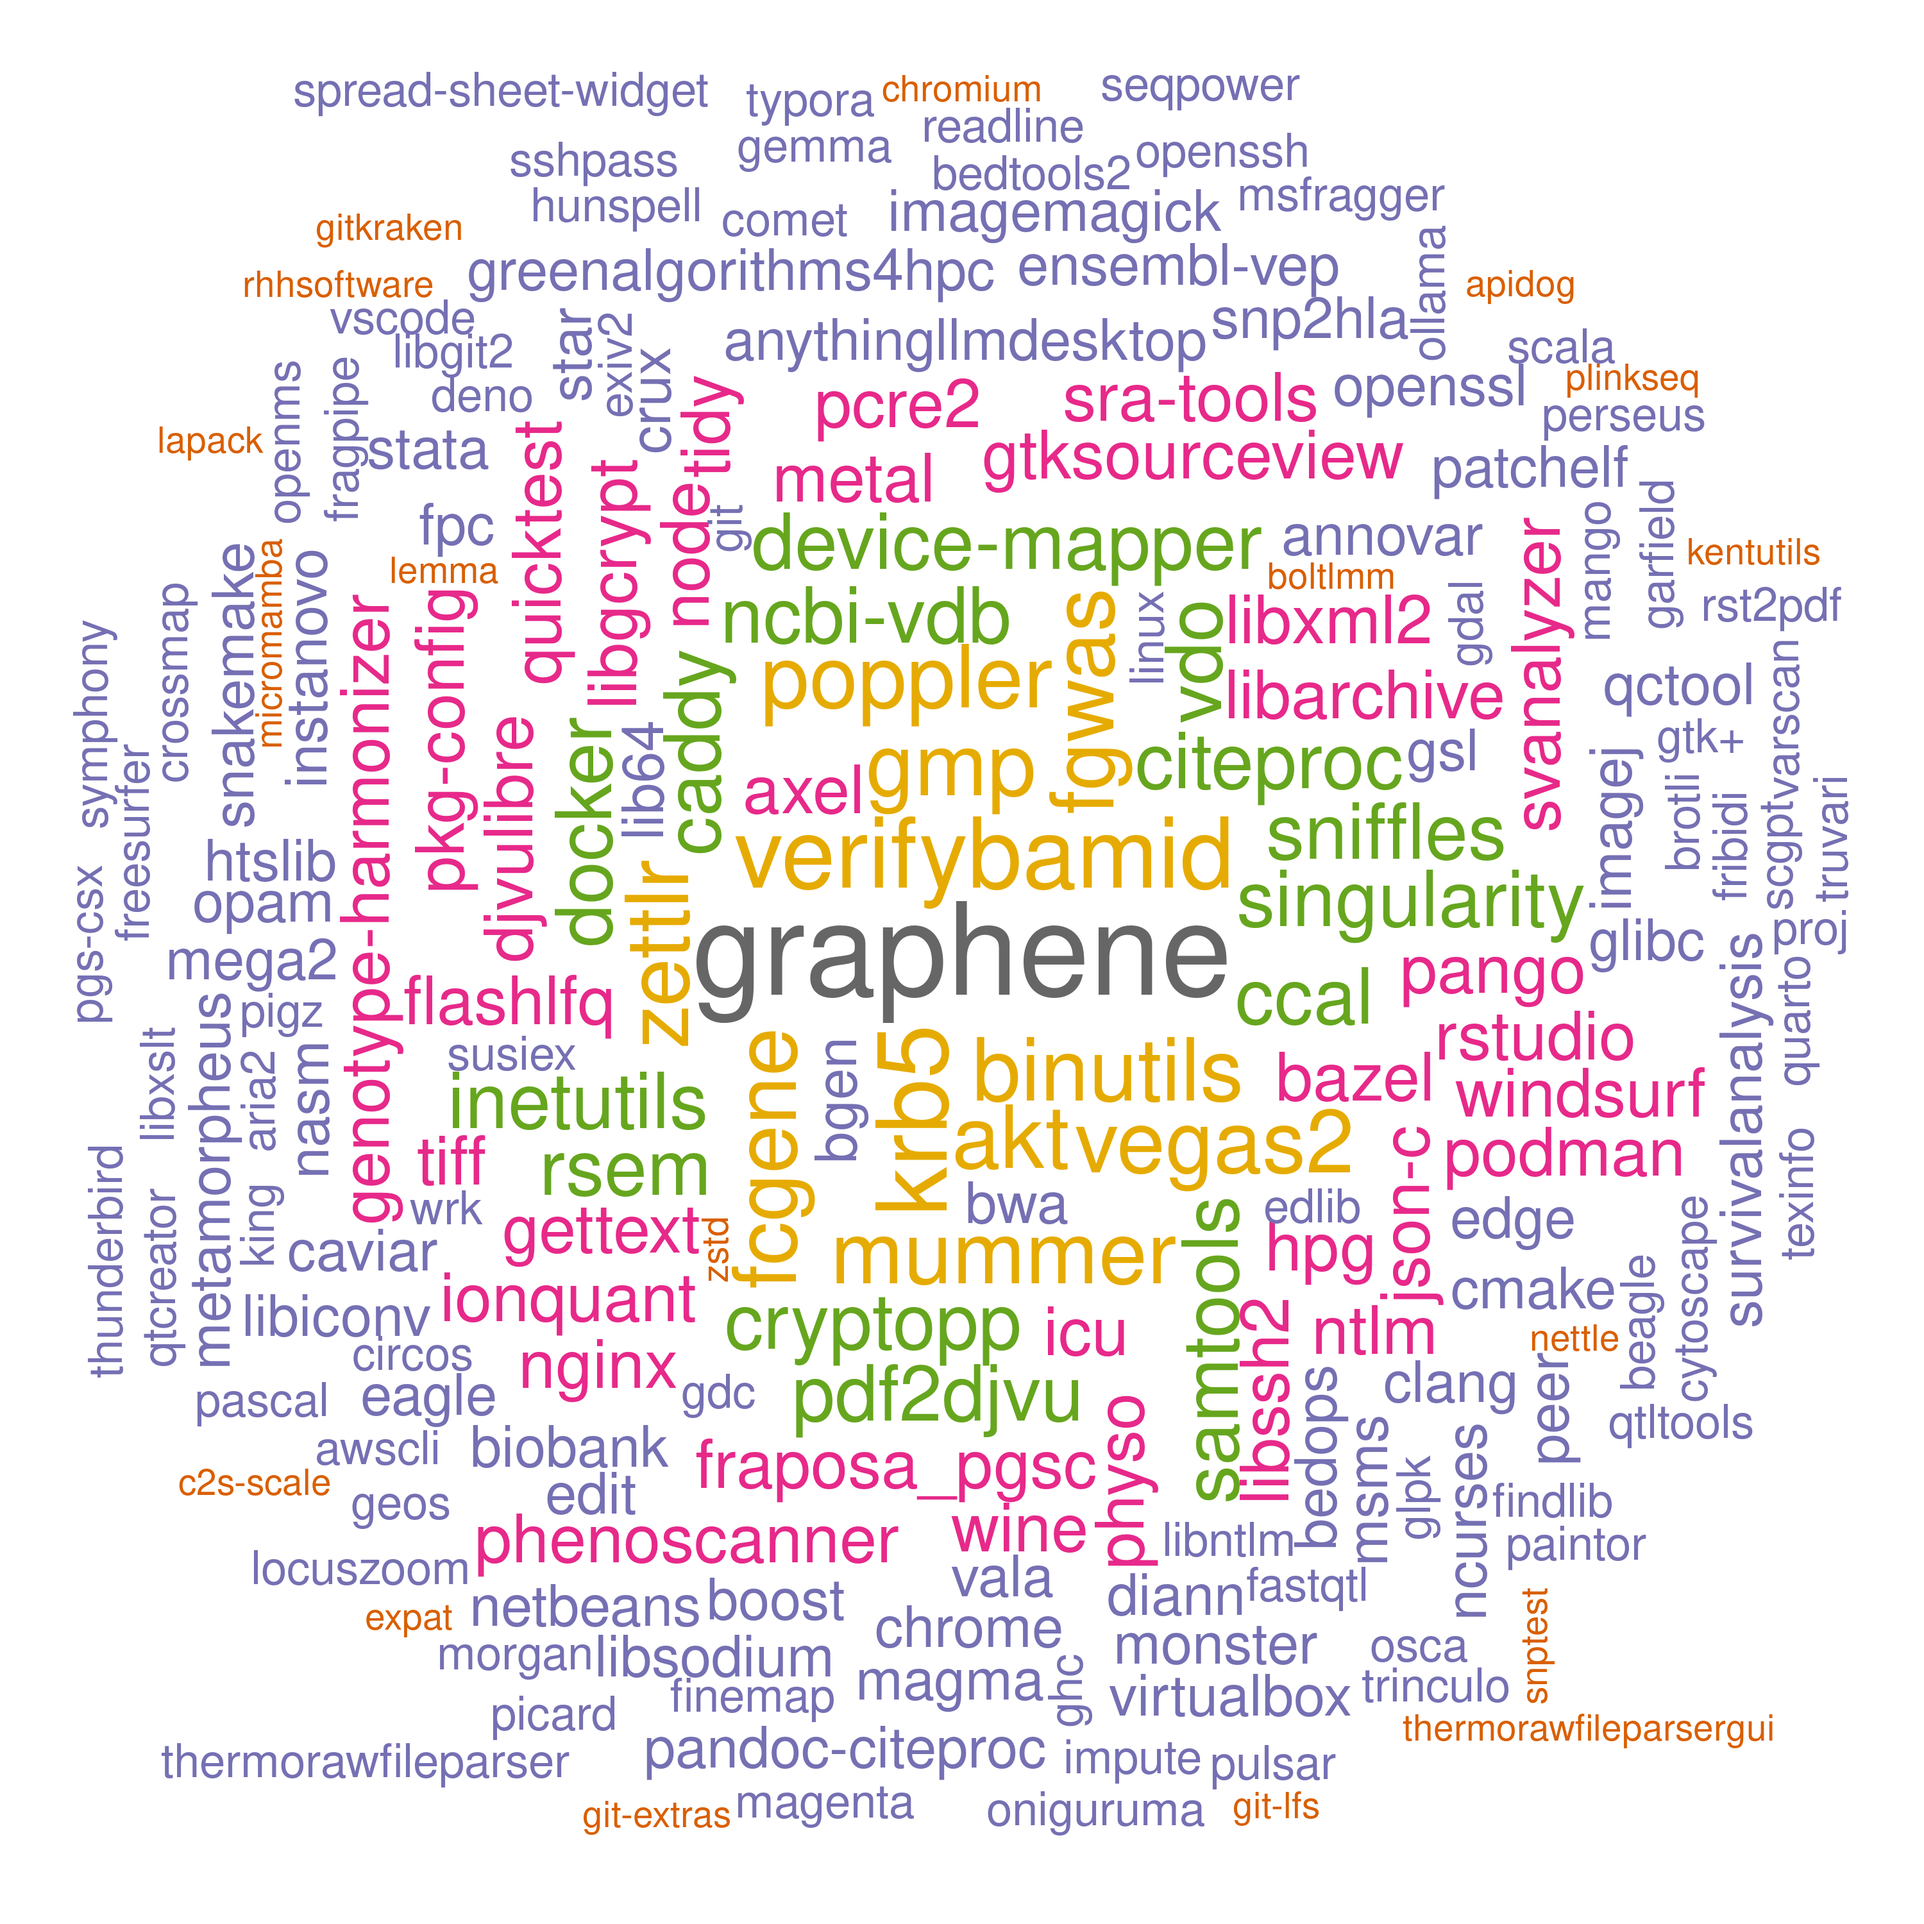
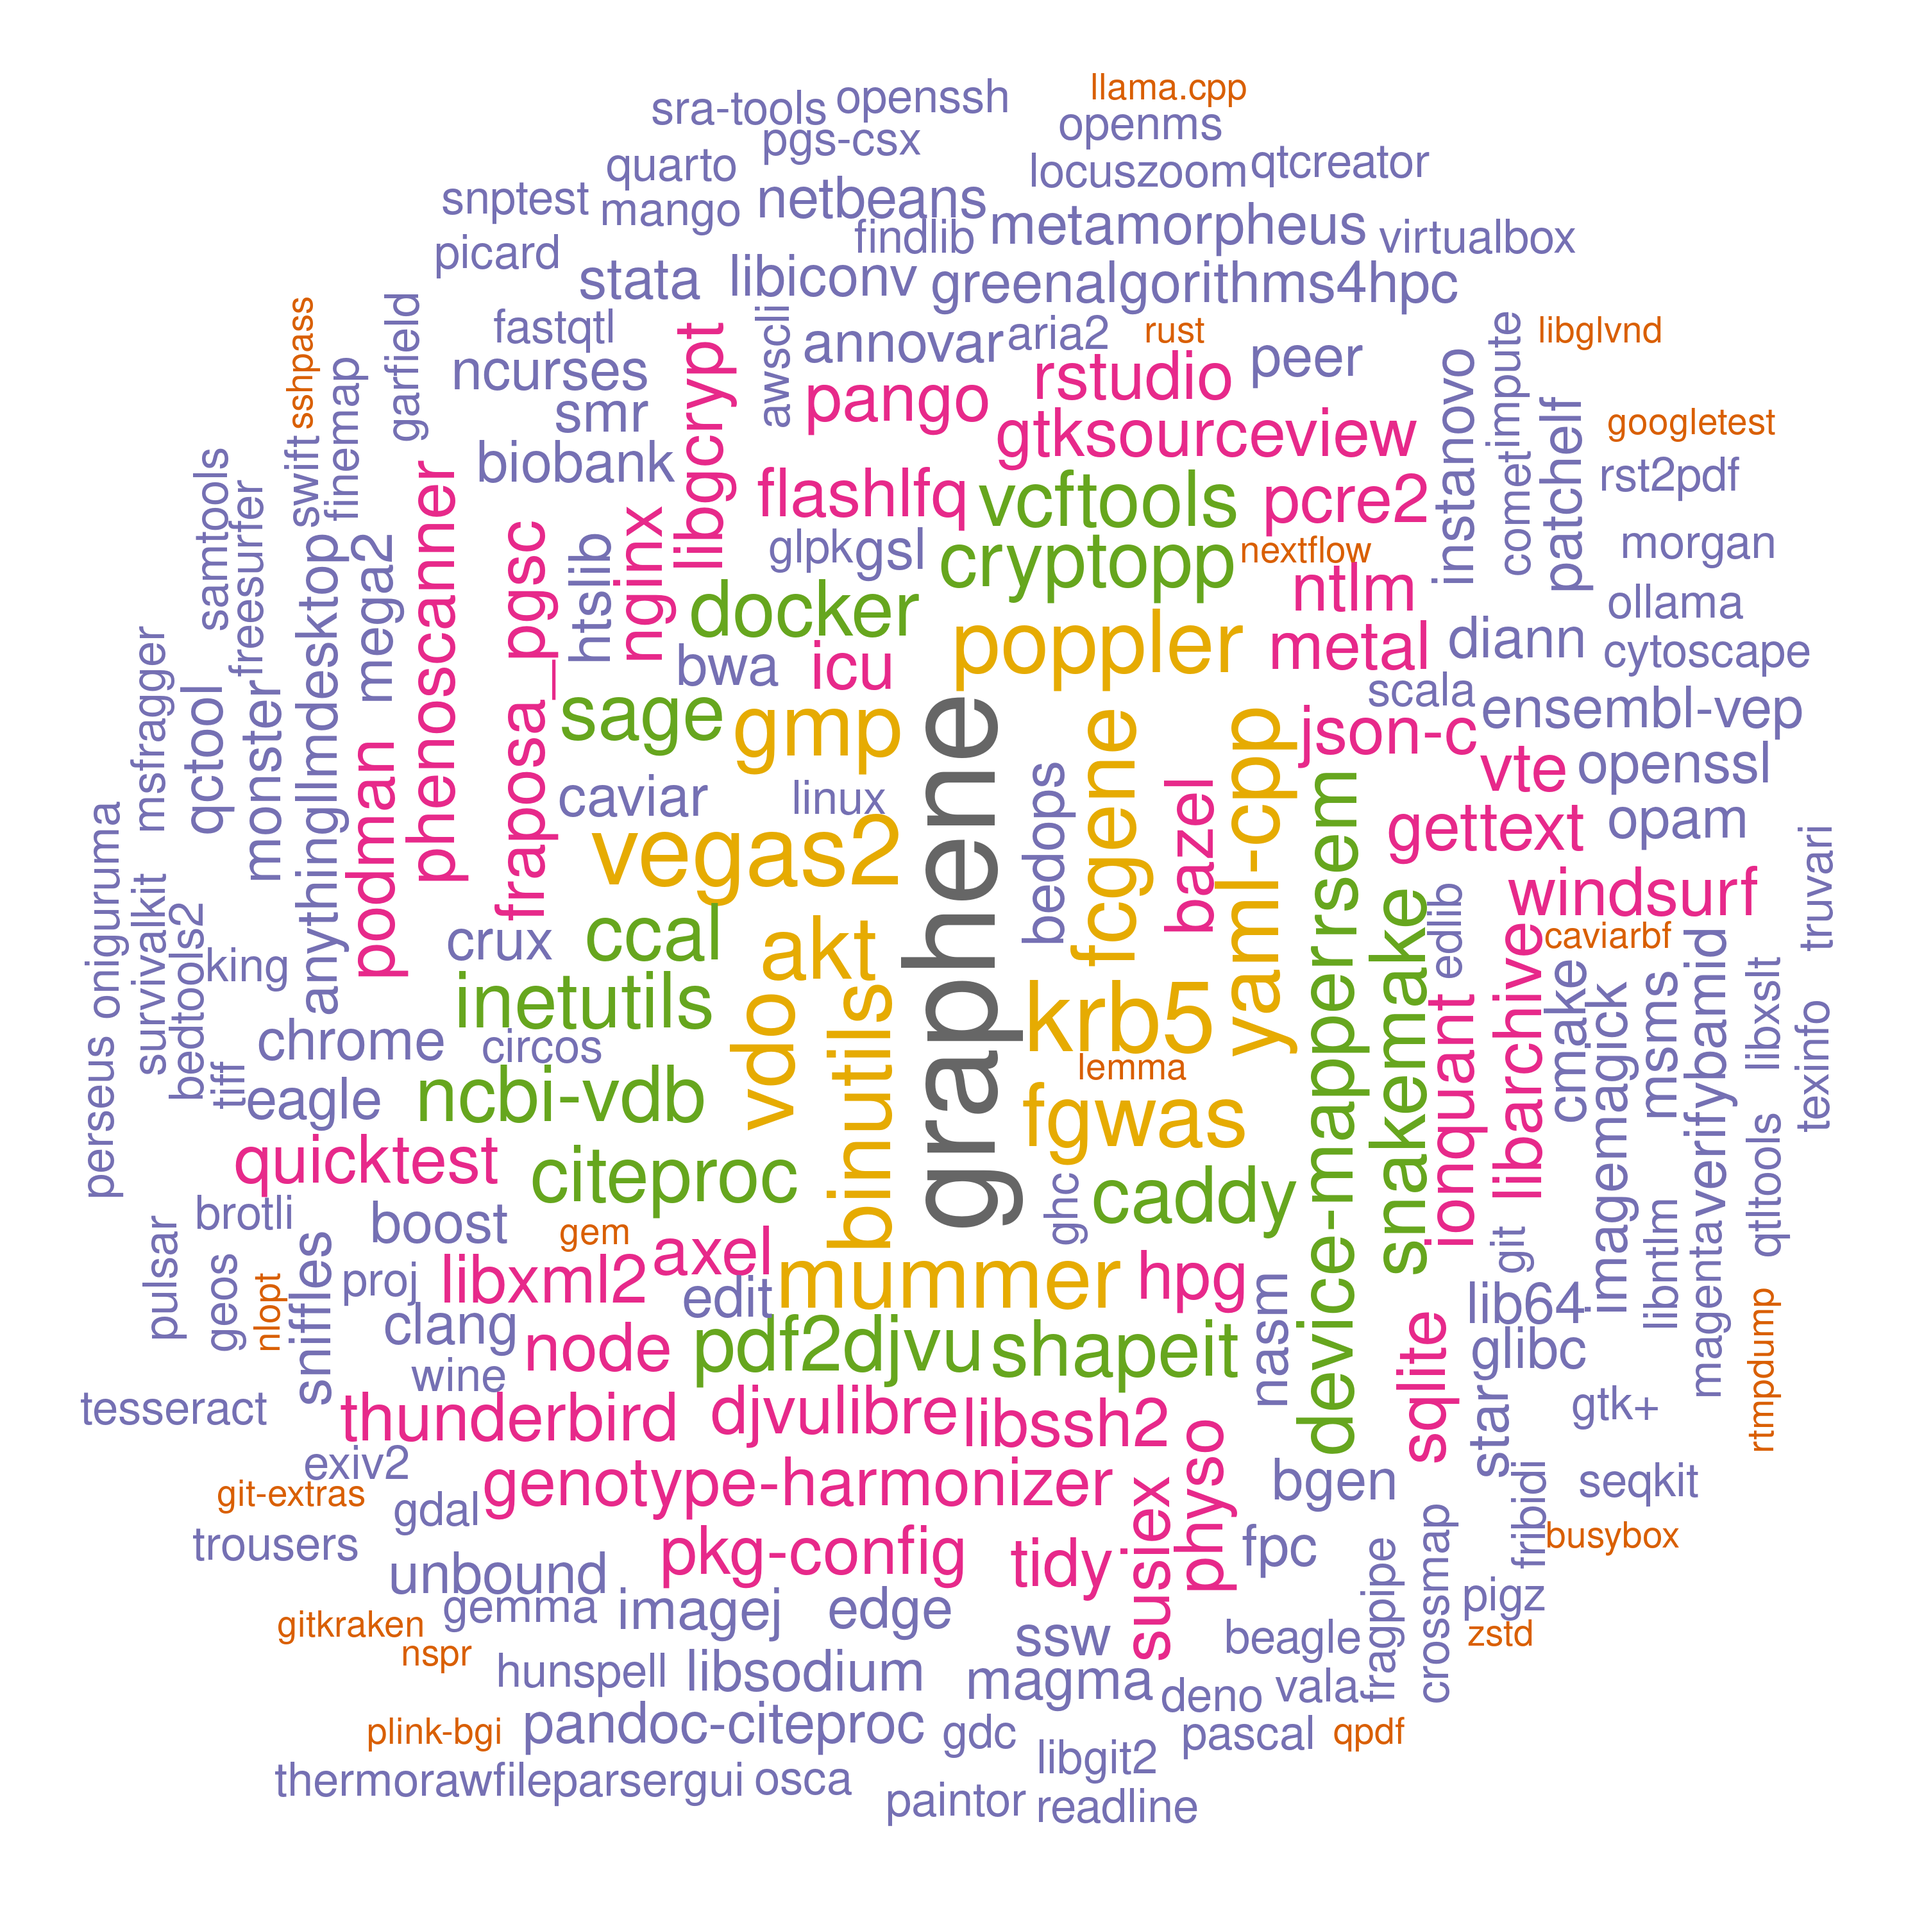
./

Changed region(s): [[0.031, 0.031, 0.961, 0.961]]

diff --git a/systems/ceuadmin.md b/systems/ceuadmin.md
@@ -79,23 +79,24 @@ The current list is as follows,
 [245] "qt"                     "qtcreator"              "QTLtools"               "quarto"
 [249] "quicktest"              "R"                      "raremetal"              "rclone"
 [253] "readline"               "regenie"                "regtools"               "RHHsoftware"
-[257] "RSEM"                   "rst2pdf"                "rstudio"                "rtmpdump"
-[261] "ruby"                   "rust"                   "sage"                   "samtools"
-[265] "Scala"                  "scGPT"                  "seqkit"                 "SEQPower"
-[269] "shapeit"                "singularity"            "SMR"                    "snakemake"
-[273] "sniffles"               "SNP2HLA"                "snptest"                "spread-sheet-widget"
-[277] "spyder"                 "sqlite"                 "sra-tools"              "sshpass"
-[281] "ssw"                    "STAR"                   "stata"                  "SurvivalAnalysis"
-[285] "SurvivalKit"            "SuSiEx"                 "SVanalyzer"             "Swift"
-[289] "SYMPHONY"               "Synapse"                "tabix"                  "tandem"
-[293] "tatami"                 "tesseract"              "texinfo"                "ThermoRawFileParser"
-[297] "ThermoRawFileParserGUI" "thunderbird"            "tidy"                   "tiff"
-[301] "trinculo"               "trousers"               "truvari"                "Typora"
-[305] "unbound"                "uv"                     "vala"                   "VarScan"
-[309] "vcftools"               "vdo"                    "VEGAS2"                 "verifyBamID"
-[313] "VirtualBox"             "VSCode"                 "VSCodium"               "vte"
-[317] "Windsurf"               "wine"                   "wrk"                    "xpdf"
-[321] "yaml-cpp"               "Zettlr"                 "Zotero"                 "zstd"
+[257] "RSEM"                   "rst2pdf"                "rstudio"                "rtg-tools"
+[261] "rtmpdump"               "ruby"                   "rust"                   "sage"
+[265] "samtools"               "Scala"                  "scGPT"                  "seqkit"
+[269] "SEQPower"               "shapeit"                "singularity"            "SMR"
+[273] "snakemake"              "sniffles"               "SNP2HLA"                "snptest"
+[277] "spread-sheet-widget"    "spyder"                 "sqlite"                 "sra-tools"
+[281] "sshpass"                "ssw"                    "STAR"                   "stata"
+[285] "SurvivalAnalysis"       "SurvivalKit"            "SuSiEx"                 "SVanalyzer"
+[289] "Swift"                  "SYMPHONY"               "Synapse"                "tabix"
+[293] "tandem"                 "tatami"                 "tesseract"              "texinfo"
+[297] "ThermoRawFileParser"    "ThermoRawFileParserGUI" "thunderbird"            "tidy"
+[301] "tiff"                   "trinculo"               "trousers"               "truvari"
+[305] "Typora"                 "unbound"                "uv"                     "vala"
+[309] "VarScan"                "vcftools"               "vdo"                    "VEGAS2"
+[313] "verifyBamID"            "VirtualBox"             "VSCode"                 "VSCodium"
+[317] "vte"                    "Windsurf"               "wine"                   "wrk"
+[321] "xpdf"                   "yaml-cpp"               "Zettlr"                 "Zotero"
+[325] "zstd"
 ```
 
 These are wrapped up as :star::star::star: **[modules](https://modules.readthedocs.io/en/latest/index.html)** :star::star::star:.
